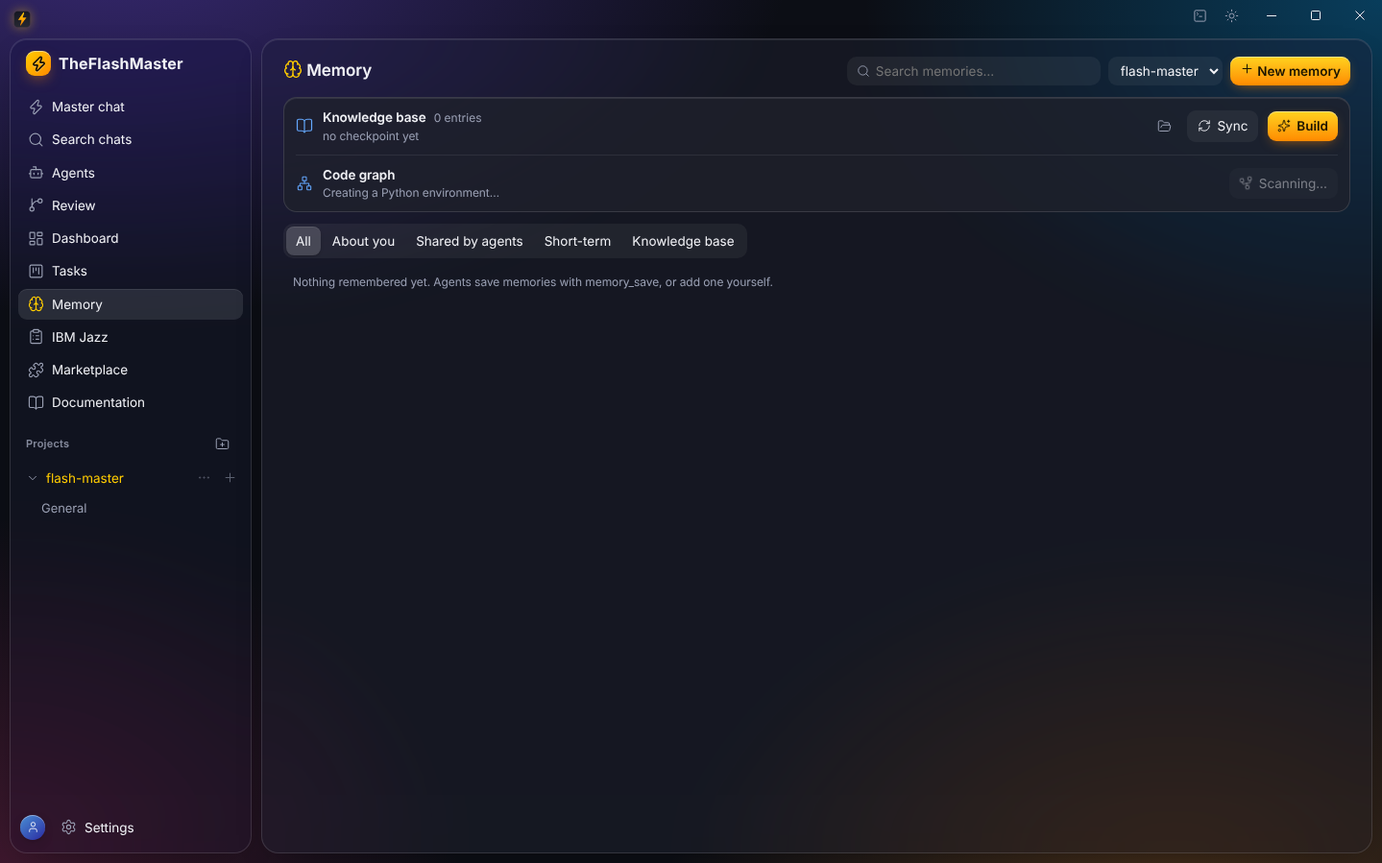
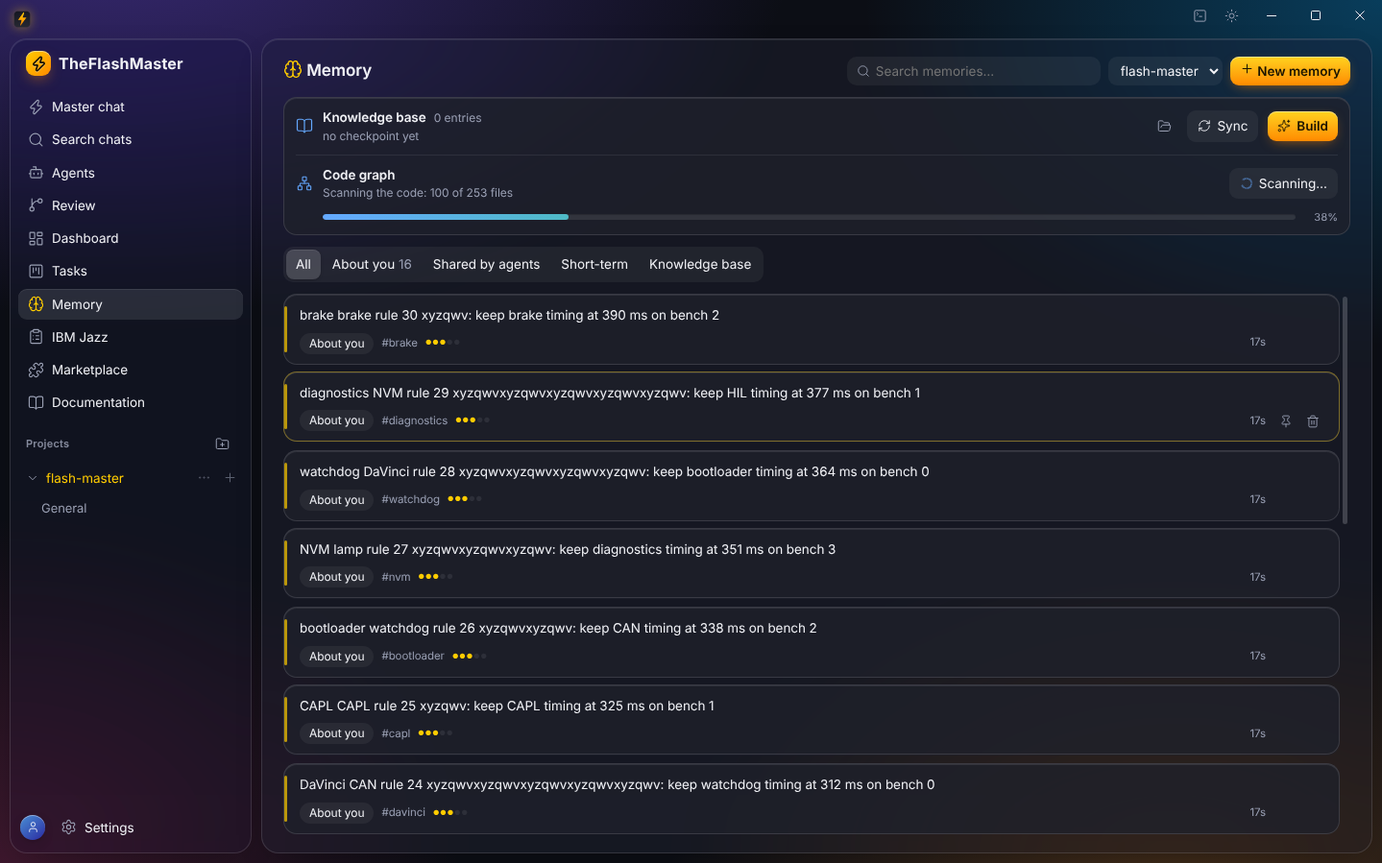
Code graph: progress bar, loading spinner, and keep the Memory page's panels from being squashed
graphify's output is streamed while it runs: the file counts of its AST pass
drive a progress bar, pip's steps show while it installs (sliding bar, since
that can't be measured), and the Scan button shows a spinner instead of
rotating the graph icon. With a long memory list the page's flex column
squashed the scope bar (overflow: hidden) to an empty sliver; only the list
shrinks now.

Claude-Session: https://claude.ai/code/session_01KKSigCwN3FzCkBDrF79DMT

Changed region(s): [[0.1835, 0.218, 0.9785, 0.9655], [0.8867, 0.1869, 0.9479, 0.218]]

diff --git a/src/main/graphify.ts b/src/main/graphify.ts
@@ -33,10 +33,40 @@ export interface CodeGraphDeps {
   knowledge: KnowledgeBase;
   /** graphify's Python if installed, else null. */
   python: () => string | null;
-  /** Install graphify (first scan only) and return its Python. */
-  install: (onPhase: (phase: string) => void) => Promise<string>;
+  /** Install graphify (first scan only) and return its Python; pip's output goes to onOutput as it comes. */
+  install: (onPhase: (phase: string) => void, onOutput?: (chunk: string) => void) => Promise<string>;
   run?: Run;
   onStatus?: (s: CodeGraphStatus) => void;
+}
+
+/** Where graphify's scan output says it is (0…1), or undefined for a line that doesn't tell. */
+export function scanProgress(line: string): number | undefined {
+  const ext = /AST extraction:\s*(\d+)\s*\/\s*(\d+)/.exec(line);
+  if (ext && Number(ext[2]) > 0) return 0.08 + 0.77 * Math.min(1, Number(ext[1]) / Number(ext[2]));
+  if (/AST cache:/.test(line)) return 0.08;
+  if (/not classified|Updating code graph/.test(line)) return 0.04;
+  if (/Rebuilt:|No code-graph topology|graph\.json, graph\.html|Code graph updated/.test(line)) return 0.9;
+  return undefined;
+}
+
+/** pip's current step in plain words ("Downloading tree-sitter-cpp…"), or undefined. */
+export function pipStep(line: string): string | undefined {
+  const m = /^\s*(Collecting|Downloading|Installing collected packages|Building wheel for|Using cached)\s*:?\s*([^\s(]*)/.exec(line);
+  if (!m) return undefined;
+  if (m[1] === "Installing collected packages") return "Installing packages…";
+  const pkg = m[2]!.replace(/^.*\//, "").replace(/-\d.*$/, "").replace(/[<>=!~;[].*$/, "");
+  return `${m[1] === "Using cached" || m[1] === "Collecting" ? "Getting" : m[1]} ${pkg || "packages"}…`;
+}
+
+/** Calls onLine for each complete line of streamed output (\n or \r: progress lines often rewrite themselves). */
+function lines(onLine: (l: string) => void): (chunk: string) => void {
+  let buf = "";
+  return (chunk) => {
+    buf += chunk;
+    const parts = buf.split(/\r\n|\r|\n/);
+    buf = parts.pop() ?? "";
+    for (const l of parts) if (l.trim()) onLine(l);
+  };
 }
 
 interface GraphMeta { nodes: number; edges: number; communities: number; commit: string | null; version: string | null }
@@ -122,6 +152,7 @@ export function codeMapEntry(report: string, meta: GraphMeta, limit = MAX_KNOWLE
 
 export class CodeGraph {
   private running = new Map<string, string>();
+  private progress = new Map<string, number | null>();
   private errors = new Map<string, string>();
   private run: Run;
 
@@ -145,11 +176,15 @@ export class CodeGraph {
     let graph: CodeGraphStatus["graph"] = null;
     try { graph = { ...graphMeta(readFileSync(file, "utf8")), at: statSync(file).mtimeMs }; } catch { /* no graph yet */ }
     const html = join(out, "graph.html");
-    return { projectId, installed: !!this.d.python(), running: this.running.get(projectId) ?? null, graph, error: this.errors.get(projectId) ?? null, html: existsSync(html) ? html : null };
+    const running = this.running.get(projectId) ?? null;
+    return { projectId, installed: !!this.d.python(), running, progress: running ? this.progress.get(projectId) ?? null : null, graph, error: this.errors.get(projectId) ?? null, html: existsSync(html) ? html : null };
   }
 
-  private phase(projectId: string, phase: string | null): void {
-    if (phase) this.running.set(projectId, phase); else this.running.delete(projectId);
+  /** Report a step; progress undefined keeps the current value, null = can't be measured. Unchanged reports are dropped. */
+  private phase(projectId: string, phase: string | null, progress?: number | null): void {
+    const p = progress === undefined ? this.progress.get(projectId) ?? null : progress === null ? null : Math.round(Math.min(1, Math.max(0, progress)) * 100) / 100;
+    if (phase && this.running.get(projectId) === phase && this.progress.get(projectId) === p) return;
+    if (phase) { this.running.set(projectId, phase); this.progress.set(projectId, p); } else { this.running.delete(projectId); this.progress.delete(projectId); }
     this.d.onStatus?.(this.status(projectId));
   }
 
@@ -159,17 +194,24 @@ export class CodeGraph {
     if (this.running.has(projectId)) throw new Error("a scan of this project is already running");
     this.errors.delete(projectId);
     try {
-      this.phase(projectId, "Starting…");
-      const py = this.d.python() ?? await this.d.install((ph) => this.phase(projectId, ph));
+      this.phase(projectId, "Starting…", 0);
+      const py = this.d.python() ?? await this.d.install((ph) => this.phase(projectId, `${ph} (first scan only)`, null),
+        lines((l) => { const step = pipStep(l); if (step) this.phase(projectId, `Installing graphify: ${step}`, null); }));
       const out = this.outDir(projectId);
       mkdirSync(out, { recursive: true });
       ensureFlashmasterIgnore(p.path); // the graph and its cache stay out of git
       // graphify reads per-folder ignore files: keep it out of .flashmaster (its own output, the knowledge files).
       const ignore = join(p.path, ".flashmaster", ".graphifyignore");
       if (!existsSync(ignore)) writeFileSync(ignore, "# TheFlashMaster: graphify skips this folder (its output and the knowledge base live here).\n*\n");
-      this.phase(projectId, "Scanning the code…");
+      this.phase(projectId, "Scanning the code…", 0.02);
       const r = await this.run(py, ["-m", "graphify", "update", ".", "--force"], 30 * 60_000, p.path,
-        { GRAPHIFY_OUT: out, PYTHONIOENCODING: "utf-8", PYTHONUTF8: "1" });
+        { GRAPHIFY_OUT: out, PYTHONIOENCODING: "utf-8", PYTHONUTF8: "1" },
+        lines((l) => {
+          const at = scanProgress(l);
+          if (at === undefined) return;
+          const files = /AST extraction:\s*(\d+)\s*\/\s*(\d+)/.exec(l);
+          this.phase(projectId, files ? `Scanning the code: ${files[1]} of ${files[2]} files` : at >= 0.9 ? "Building the graph…" : "Scanning the code…", at);
+        }));
       if (r.code !== 0) throw new Error(`graphify failed${r.code === null ? " (timed out)" : ""}: ${r.out.trim().split(/\r?\n/).slice(-4).join(" ").slice(-400) || `exit ${r.code}`}`);
       let report: string, meta: GraphMeta;
       try {
@@ -178,7 +220,7 @@ export class CodeGraph {
       } catch {
         throw new Error(`graphify wrote no graph: ${r.out.trim().split(/\r?\n/).slice(-3).join(" ").slice(-300)}`);
       }
-      this.phase(projectId, "Writing the knowledge base…");
+      this.phase(projectId, "Writing the knowledge base…", 0.96);
       this.d.knowledge.write(projectId, { slug: CODE_MAP_SLUG, content: codeMapEntry(report, meta), kind: "fact", tags: ["code-map", "graphify", "architecture"], importance: 4 },
         { role: null });
     } catch (e: any) {

diff --git a/tests/graphify.test.ts b/tests/graphify.test.ts
@@ -5,7 +5,7 @@ import { join } from "node:path";
 import { Db } from "../src/main/db";
 import { MemoryStore, MAX_KNOWLEDGE_CHARS } from "../src/main/memory";
 import { KnowledgeBase } from "../src/main/knowledge";
-import { CODE_MAP_SLUG, CodeGraph, codeMapEntry, graphMeta } from "../src/main/graphify";
+import { CODE_MAP_SLUG, CodeGraph, codeMapEntry, graphMeta, pipStep, scanProgress } from "../src/main/graphify";
 import { buildTools } from "../src/main/tools";
 import type { CodeGraphStatus } from "../src/shared/types";
 
@@ -111,15 +111,39 @@ function setup(opts: { installed?: boolean } = {}) {
     }
     return { code: 0, out: "[graphify] note: old id scheme\nNODE Engine [src=main.ts]" };
   };
-  const run = vi.fn(async (cmd: string, args: string[], _t?: number, cwd?: string, env?: Record<string, string>) => {
+  const run = vi.fn(async (cmd: string, args: string[], _t?: number, cwd?: string, env?: Record<string, string>, onData?: (c: string) => void) => {
     calls.push({ cmd, args, cwd, env });
+    // graphify's real progress output, split mid-line and with \r rewrites as a pipe delivers it.
+    if (args[2] === "update" && onData) for (const c of ["Updating code graph in . (no LLM needed)...\n  AST cache: 0/200 files ser", "ved (0%); 200 to extract\n",
+      "  AST extraction: 100/200 uncached files (50%) [4 workers]\r", "  AST extraction: 200/200 uncached files (100%) [4 workers]\n", "[graphify watch] Rebuilt: 4 nodes, 3 edges, 2 communities\n"]) onData(c);
     return answer(args, env);
   });
-  const install = vi.fn(async (onPhase: (p: string) => void) => { onPhase("Installing graphify…"); python = "/venv/python"; return python; });
+  const install = vi.fn(async (onPhase: (p: string) => void, onOutput?: (c: string) => void) => {
+    onPhase("Installing graphify…");
+    onOutput?.("Collecting graphifyy\n  Downloading tree_sitter_cpp-0.23.4-cp39-abi3-win_amd64.whl (300 kB)\nInstalling collected packages: networkx\n");
+    python = "/venv/python"; return python;
+  });
   const events: CodeGraphStatus[] = [];
   const cg = new CodeGraph({ db, knowledge: kb, python: () => python, install, run, onStatus: (s) => events.push(s) });
   return { dir, db, store, kb, p, cg, calls, install, events, setAnswer: (f: typeof answer) => { answer = f; } };
 }
+
+describe("progress parsing", () => {
+  it("reads graphify's file counts and pip's steps", () => {
+    expect(scanProgress("  AST extraction: 50/200 uncached files (25%) [4 workers]")).toBeCloseTo(0.08 + 0.77 * 0.25);
+    expect(scanProgress("[graphify watch] No code-graph topology changes detected; outputs left untouched.")).toBe(0.9);
+    expect(scanProgress("Tip: set GEMINI_API_KEY")).toBeUndefined();
+    expect(pipStep("Collecting tree-sitter-python<0.26,>=0.23 (from graphifyy)")).toBe("Getting tree-sitter-python…");
+    expect(pipStep("  Downloading numpy-2.3.1-cp313-cp313-win_amd64.whl (12.6 MB)")).toBe("Downloading numpy…");
+    expect(pipStep("Installing collected packages: numpy, networkx")).toBe("Installing packages…");
+    expect(pipStep("Successfully installed numpy")).toBeUndefined();
+  });
+
+  it("keeps the Memory page's knowledge panel and scope bar from being squashed by a long list", () => {
+    const css = readFileSync(join(__dirname, "..", "src", "renderer", "styles.css"), "utf8");
+    expect(css).toMatch(/\.memory-page > :not\(\.memory-list\) \{ flex-shrink: 0; \}/);
+  });
+});
 
 describe("code graph scan", () => {
   it("installs graphify on the first scan, runs it in the project and writes the code-map knowledge entry", async () => {
@@ -142,8 +166,14 @@ describe("code graph scan", () => {
     expect(m.tags).toContain("graphify");
     expect(readFileSync(join(t.dir, ".flashmaster", "knowledge", `${CODE_MAP_SLUG}.md`), "utf8")).toContain("- **Engine** (3)");
     // Progress is visible while it runs, and ends idle.
-    expect(t.events.map((e) => e.running)).toEqual(expect.arrayContaining(["Installing graphify…", "Scanning the code…", "Writing the knowledge base…"]));
-    expect(t.events.at(-1)!.running).toBeNull();
+    expect(t.events.map((e) => e.running)).toEqual(expect.arrayContaining(["Installing graphify… (first scan only)", "Installing graphify: Downloading tree_sitter_cpp…",
+      "Scanning the code: 100 of 200 files", "Scanning the code: 200 of 200 files", "Building the graph…", "Writing the knowledge base…"]));
+    // Installing can't be measured (an indeterminate bar); the scan follows graphify's file counts and only moves forward.
+    expect(t.events.find((e) => e.running?.startsWith("Installing"))!.progress).toBeNull();
+    const scan = t.events.filter((e) => e.running?.startsWith("Scanning") || e.running?.startsWith("Building") || e.running?.startsWith("Writing")).map((e) => e.progress!);
+    expect(scan).toEqual([...scan].sort((a, b) => a - b));
+    expect(t.events.find((e) => e.running === "Scanning the code: 100 of 200 files")!.progress).toBeCloseTo(0.47, 2);
+    expect(t.events.at(-1)!).toMatchObject({ running: null, progress: null });
   });
 
   it("reports a failed run, keeps no half entry and refuses a second scan of the same project while one runs", async () => {

diff --git a/src/renderer/views/MemoryView.tsx b/src/renderer/views/MemoryView.tsx
@@ -1,5 +1,5 @@
 import { useEffect, useMemo, useState } from "react";
-import { ArrowUpRight, BookOpen, Brain, ExternalLink, FolderOpen, Network, Pin, PinOff, Plus, RefreshCw, Search, Sparkles, Trash2 } from "../components/icons";
+import { ArrowUpRight, BookOpen, Brain, ExternalLink, FolderOpen, Loader2, Network, Pin, PinOff, Plus, RefreshCw, Search, Sparkles, Trash2 } from "../components/icons";
 import { openMenu, type MenuItem } from "../components/ContextMenu";
 import type { CodeGraphStatus, KnowledgeStatus, Memory, MemoryKind, MemoryScope } from "@shared/types";
 import { MEMORY_KINDS } from "@shared/types";
@@ -196,7 +196,7 @@ function CodeGraphRow({ projectId, onError }: { projectId: string; onError: (e: 
   const g = status?.graph;
   const running = status?.running ?? null;
   const scan = async () => {
-    setStatus((s) => (s ? { ...s, running: s.running ?? "Starting…", error: null } : s));
+    setStatus((s) => (s ? { ...s, running: s.running ?? "Starting…", progress: s.running ? s.progress : 0, error: null } : s));
     try {
       const r = await api().scanCodeGraph(projectId);
       setStatus(r);
@@ -211,21 +211,32 @@ function CodeGraphRow({ projectId, onError }: { projectId: string; onError: (e: 
     : g ? `${fmt(g.nodes)} symbols · ${fmt(g.edges)} relations · ${g.communities} communities · scanned ${ago(g.at)}${g.commit ? ` at ${short(g.commit)}` : ""}`
     : status && !status.installed ? "Map the code with graphify (runs locally, no LLM). The first scan installs it."
     : "Map the code with graphify (runs locally, no LLM) into a code-map entry.";
+  const pct = running && status?.progress != null ? Math.round(status.progress * 100) : null;
   return (
-    <div className="kb-graph">
-      <Network size={16} className={`kb-icon${running ? " kb-pulse" : ""}`} />
-      <div className="kb-text">
-        <div className="kb-title">Code graph</div>
-        <div className="muted small">{line}</div>
-        {status?.error && !running && <div className="kb-error small" title={status.error}>{clipText(status.error, 160)}</div>}
+    <div className={`kb-graph${running ? " running" : ""}`}>
+      <div className="kb-graph-head">
+        <Network size={16} className="kb-icon" />
+        <div className="kb-text">
+          <div className="kb-title">Code graph</div>
+          <div className="muted small kb-graph-line" title={line}>{line}</div>
+          {status?.error && !running && <div className="kb-error small" title={status.error}>{clipText(status.error, 160)}</div>}
+        </div>
+        <span className="grow" />
+        <div className="kb-actions">
+          {status?.html && !running && <button className="ghost" title="Open graphify's interactive graph in the browser" onClick={() => void api().openCodeGraph(projectId).catch(onError)}>
+            <ExternalLink size={14} /> Open graph
+          </button>}
+          <button disabled={!!running} aria-busy={!!running} title="Scan the project's code with graphify and write the code-map entry of the knowledge base" onClick={() => void scan()}>
+            {running ? <Loader2 size={14} className="spin" /> : <Network size={14} />} {running ? "Scanning…" : g ? "Rescan code" : "Scan code"}
+          </button>
+        </div>
       </div>
-      <span className="grow" />
-      {status?.html && !running && <button className="ghost" title="Open graphify's interactive graph in the browser" onClick={() => void api().openCodeGraph(projectId).catch(onError)}>
-        <ExternalLink size={14} /> Open graph
-      </button>}
-      <button disabled={!!running} title="Scan the project's code with graphify and write the code-map entry of the knowledge base" onClick={() => void scan()}>
-        <Network size={14} className={running ? "spin" : ""} /> {running ? "Scanning…" : g ? "Rescan code" : "Scan code"}
-      </button>
+      {running && (
+        <div className="kb-progress" role="progressbar" aria-label="Code scan progress" aria-valuemin={0} aria-valuemax={100} aria-valuenow={pct ?? undefined}>
+          <div className={`kb-progress-track${pct === null ? " indeterminate" : ""}`}><div className="kb-progress-fill" style={pct === null ? undefined : { width: `${Math.max(2, pct)}%` }} /></div>
+          <span className="kb-progress-pct">{pct === null ? "" : `${pct}%`}</span>
+        </div>
+      )}
     </div>
   );
 }

diff --git a/src/renderer/styles.css b/src/renderer/styles.css
@@ -1618,6 +1618,9 @@ input, select, textarea { border-color: transparent; background: var(--quiet); }
 
 /* ---------- Memory page ---------- */
 .memory-page { display: flex; flex-direction: column; gap: 12px; }
+/* Only the list may shrink: with many memories the page used to squash the knowledge panel and the scope bar (overflow: hidden) to a sliver. */
+.memory-page > :not(.memory-list) { flex-shrink: 0; }
+.memory-page > .memory-list { flex: 1 1 auto; min-height: 0; }
 .memory-scopes { align-self: flex-start; }
 .memory-search { display: inline-flex; align-items: center; gap: 6px; padding: 0 10px; border-radius: 10px; background: var(--quiet); color: var(--muted); }
 .memory-search input { border: none; background: transparent; outline: none; min-width: 200px; padding-left: 0; }
@@ -1648,11 +1651,24 @@ input, select, textarea { border-color: transparent; background: var(--quiet); }
 .kb-title { font-weight: 600; display: flex; align-items: baseline; gap: 8px; }
 .kb-title .link-btn { background: none; border: none; padding: 0; font: inherit; font-weight: 400; font-size: 12px; cursor: pointer; }
 .kb-title .link-btn:hover { color: var(--fg); text-decoration: underline; }
-.kb-graph { display: flex; align-items: center; gap: 10px; flex-wrap: wrap; margin-top: 10px; padding-top: 10px; border-top: 1px solid var(--line); }
-.kb-graph .grow { flex: 1; }
-.kb-graph button { display: inline-flex; align-items: center; gap: 6px; }
+.kb-graph { display: flex; flex-direction: column; gap: 8px; margin-top: 10px; padding-top: 10px; border-top: 1px solid var(--line); }
+.kb-graph-head { display: flex; align-items: center; gap: 10px; min-width: 0; }
+.kb-graph-head .grow { flex: 1; }
+.kb-graph-head .kb-text { flex: 1 1 auto; min-width: 0; }
+.kb-graph-line { white-space: nowrap; overflow: hidden; text-overflow: ellipsis; }
+.kb-actions { display: flex; align-items: center; gap: 8px; flex: none; }
+.kb-graph button { display: inline-flex; align-items: center; gap: 6px; white-space: nowrap; }
 .kb-graph .kb-icon { margin: 0 1px; }
-.kb-graph .kb-icon.kb-pulse { animation: pulse 1.4s ease-in-out infinite; }
+.kb-graph button[aria-busy="true"] { opacity: 1; color: var(--fg); cursor: progress; }
+.kb-graph button[aria-busy="true"] svg { color: var(--blue); }
+/* Progress of a running scan: graphify's own file counts; a sliding glow while a step can't be measured (installing). */
+.kb-progress { display: flex; align-items: center; gap: 10px; padding-left: 28px; }
+.kb-progress-track { position: relative; flex: 1; height: 6px; border-radius: 99px; overflow: hidden; background: color-mix(in srgb, var(--fg) 10%, transparent); box-shadow: inset 0 1px 1px rgba(0, 0, 0, .18); }
+.kb-progress-fill { height: 100%; width: 0; border-radius: inherit; background: linear-gradient(90deg, var(--blue), color-mix(in srgb, var(--blue) 55%, var(--green))); transition: width .35s ease; }
+.kb-progress-track.indeterminate .kb-progress-fill { position: absolute; inset: 0 auto 0 0; width: 34%; animation: kb-indeterminate 1.3s cubic-bezier(.45, 0, .55, 1) infinite; }
+@keyframes kb-indeterminate { from { transform: translateX(-105%); } to { transform: translateX(300%); } }
+.kb-progress-pct { min-width: 34px; text-align: right; font-size: 11px; font-variant-numeric: tabular-nums; color: var(--muted); }
+@media (prefers-reduced-motion: reduce) { .kb-progress-track.indeterminate .kb-progress-fill { animation-duration: 3s; } }
 .kb-error { color: var(--amber); margin-top: 2px; }
 .kb-conflicts { display: flex; flex-direction: column; gap: 6px; margin-top: 10px; padding-top: 10px; border-top: 1px solid var(--line); }
 .kb-conflict { display: flex; align-items: center; gap: 8px; flex-wrap: wrap; }

diff --git a/src/main/smoke.ts b/src/main/smoke.ts
@@ -77,6 +77,8 @@ export async function runSmoke(win: BrowserWindow, log: (l: "info" | "error", m:
       mkdirSync(graphDir, { recursive: true });
       const proj = process.env.FLASH_SMOKE_PROJECT ?? app.getPath("temp");
       await js(`window.flash.api.createProject(${JSON.stringify(proj)}, "flash-master")`);
+      // A long memory list, as on a real install: the knowledge panel must keep its size above it.
+      await js(`(async()=>{for(let i=1;i<=30;i++) {const w=["brake","lamp","CAN","HIL","DaVinci","CAPL","bootloader","NVM","watchdog","diagnostics"];await window.flash.api.saveMemory({ content: w[i%10]+" "+w[(i*3)%10]+" rule "+i+" "+"xyzqwv".repeat(i%5+1)+": keep "+w[(i*7)%10]+" timing at "+(i*13)+" ms on bench "+(i%4), scope: "user", kind: "fact", tags: [w[i%10].toLowerCase()] });}})()`);
       win.webContents.reload();
       await sleep(2000);
       await click("flash-master", ".project-name");
@@ -89,10 +91,21 @@ export async function runSmoke(win: BrowserWindow, log: (l: "info" | "error", m:
       };
       await memoryPage();
       await shot(join(graphDir, "1-before-scan.png"));
+      const geometry = () => js<string>(`[".kb-panel", ".kb-graph", ".memory-scopes", ".kb-actions"].map((s) => { const r = document.querySelector(s)?.getBoundingClientRect(); return s + "=" + (r ? Math.round(r.width) + "x" + Math.round(r.height) : "none"); }).join(" ")`);
+      log("info", `smoke-graph layout: ${await geometry()}`);
       await click("Scan code", ".kb-graph button");
-      await sleep(1500);
-      await shot(join(graphDir, "2-scanning.png"));
-      for (let i = 0; i < 600 && await js<boolean>("!!document.querySelector('.kb-graph button[disabled]')"); i++) await sleep(1000);
+      let installShot = false, scanShot = false;
+      for (let i = 0; i < 6000 && await js<boolean>("!!document.querySelector('.kb-graph button[disabled]')"); i++) {
+        if (!installShot && await js<boolean>("!!document.querySelector('.kb-progress-track.indeterminate')")) {
+          await sleep(300); await shot(join(graphDir, "2a-installing.png")); installShot = true;
+          log("info", `smoke-graph installing: ${await js<string>("document.querySelector('.kb-graph-line')?.textContent ?? ''")} · ${await geometry()}`);
+        }
+        if (!scanShot && await js<boolean>("(()=>{const f=document.querySelector('.kb-progress-track:not(.indeterminate) .kb-progress-fill');return !!f && parseFloat(f.style.width) >= 20})()")) {
+          await sleep(250); await shot(join(graphDir, "2b-scanning.png")); scanShot = true;
+          log("info", `smoke-graph scanning: ${await js<string>("document.querySelector('.kb-graph')?.textContent ?? ''")}`);
+        }
+        await sleep(100);
+      }
       await sleep(800);
       await js(`[...document.querySelectorAll('.seg button')].find(b=>b.textContent.includes('Knowledge base'))?.click()`);
       await sleep(800);

diff --git a/src/main/mcp.ts b/src/main/mcp.ts
@@ -319,7 +319,8 @@ export class McpBootstrap {
    * Install a pip-distributed command-line tool into its own venv in app data (not the MCP servers' shared venv: a
    * tool's pinned dependencies must not clash with theirs). Honours the proxy, index and CA settings. Returns its Python.
    */
-  async installPipTool(id: string, requirement: string, minPython: [number, number] = [3, 10], onPhase?: (phase: string) => void): Promise<string> {
+  async installPipTool(id: string, requirement: string, minPython: [number, number] = [3, 10], onPhase?: (phase: string) => void,
+    onOutput?: (chunk: string) => void): Promise<string> {
     const s = this.settings();
     const venv = join(this.p.dataDir, id, ".venv");
     const vpy = venvPython(venv);
@@ -336,7 +337,7 @@ export class McpBootstrap {
     if (s.mcp.pipIndexUrl) args.push("--index-url", s.mcp.pipIndexUrl);
     if (cliProxyUrl(s.network.proxy)) args.push("--proxy", cliProxyUrl(s.network.proxy));
     if (s.network.caBundlePath) args.push("--cert", s.network.caBundlePath);
-    const r = await runCapture(vpy, args, 900000, undefined, networkEnv(s));
+    const r = await runCapture(vpy, args, 900000, undefined, networkEnv(s), onOutput);
     if (r.code !== 0) throw new Error(`pip failed: ${r.out.trim().slice(-300) || `exit ${r.code}`}`);
     writeFileSync(join(this.p.dataDir, id, ".installed"), requirement);
     return vpy;

diff --git a/src/main/harness/process.ts b/src/main/harness/process.ts
@@ -21,7 +21,9 @@ export function killTree(child: ChildProcess): void {
   }
 }
 
-export function runCapture(command: string, args: string[], timeoutMs = 8000, cwd?: string, env?: Record<string, string>): Promise<{ code: number | null; out: string }> {
+/** Run to completion and capture stdout + stderr. `onData` also gets the output as it arrives (progress from long runs). */
+export function runCapture(command: string, args: string[], timeoutMs = 8000, cwd?: string, env?: Record<string, string>,
+  onData?: (chunk: string) => void): Promise<{ code: number | null; out: string }> {
   return new Promise((resolve) => {
     let out = "";
     let child: ChildProcess;
@@ -32,8 +34,9 @@ export function runCapture(command: string, args: string[], timeoutMs = 8000, cw
       return;
     }
     const t = setTimeout(() => { killTree(child); resolve({ code: null, out }); }, timeoutMs);
-    child.stdout?.on("data", (d) => (out += d));
-    child.stderr?.on("data", (d) => (out += d));
+    const take = (d: Buffer | string) => { out += d; if (onData) { try { onData(String(d)); } catch { /* a listener must not break the run */ } } };
+    child.stdout?.on("data", take);
+    child.stderr?.on("data", take);
     child.on("error", (e) => { clearTimeout(t); resolve({ code: -1, out: out + String(e) }); });
     child.on("close", (code) => { clearTimeout(t); resolve({ code, out }); });
   });

diff --git a/src/main/index.ts b/src/main/index.ts
@@ -165,7 +165,7 @@ const mcp = new McpBootstrap({
 // Code graph (graphify) for the knowledge base: installed into its own venv on the first "Scan code", run on demand.
 const codeGraph = new CodeGraph({
   db, knowledge, python: () => mcp.toolPython("graphify"),
-  install: (onPhase) => mcp.installPipTool("graphify", GRAPHIFY_PACKAGE, GRAPHIFY_MIN_PYTHON, (ph) => onPhase(ph.replace(GRAPHIFY_PACKAGE, "graphify"))),
+  install: (onPhase, onOutput) => mcp.installPipTool("graphify", GRAPHIFY_PACKAGE, GRAPHIFY_MIN_PYTHON, (ph) => onPhase(ph.replace(GRAPHIFY_PACKAGE, "graphify")), onOutput),
   onStatus: (status) => emit({ type: "codegraph.changed", status }),
 });
 

diff --git a/src/shared/types.ts b/src/shared/types.ts
@@ -475,6 +475,8 @@ export interface CodeGraphStatus {
   installed: boolean;
   /** What a scan running now is doing ("Installing graphify…", "Scanning the code…"); null when idle. */
   running: string | null;
+  /** How far the running scan is, 0…1 (graphify's own file counts); null while the step can't be measured (installing). */
+  progress: number | null;
   /** The last graph built for this project (local: `.flashmaster/graphify`, not committed). */
   graph: { nodes: number; edges: number; communities: number; commit: string | null; at: number; version: string | null } | null;
   /** The error of the last scan, if it failed. */

diff --git a/CHANGELOG.md b/CHANGELOG.md
@@ -1,6 +1,8 @@
 # Changelog
 
 ## Unreleased
+- **Code graph: a real progress bar and loading indicator.** While graphify runs, the Code graph row shows a progress bar that follows graphify's own file count ("Scanning the code: 100 of 253 files", 38%), a sliding bar while graphify installs (with pip's current step), and a spinner on the button instead of the rotating graph icon.
+  - **Fix:** with a long memory list, the Memory page squashed the knowledge panel's surroundings (the scope bar shrank to an empty sliver). Only the list shrinks and scrolls now.
 - **Scan a project's code into its knowledge base with graphify.** The knowledge base strip on the Memory page has a new *Code graph* row with **Scan code**: [graphify](https://github.com/Graphify-Labs/graphify) maps the project's code locally (tree-sitter, no LLM, no API key) and its report becomes the `code-map` knowledge entry, shared in git like the others. *Open graph* shows graphify's interactive graph. Agents get the new `code_graph` tool (query, explain, path, most connected, affected) and a knowledge base build starts from the code map. The first scan installs graphify into the app's own Python environment (Python 3.11+ needed); scans only run when you press the button.
 - **The coordinator runs the crew; you only hear about real blockers.** A specialist's question, blocker or failed recovery now goes to the coordinator, not to you. The coordinator answers it itself (from the brief, the project and memory), gives the specialist the missing context or a narrower task, retries it, or hands the work to another specialist, and tells you which call it made. It raises a **Needs you** card only for missing access or credentials, a choice that changes what you asked for, or a step that can't be undone. The specialist's thread shows each question and where it went. Text-mode coordinators can follow up with a specialist through `DELEGATE <role> agent "<agentId>": …`.
 - **The flow always goes end to end, and you always get feedback.**
